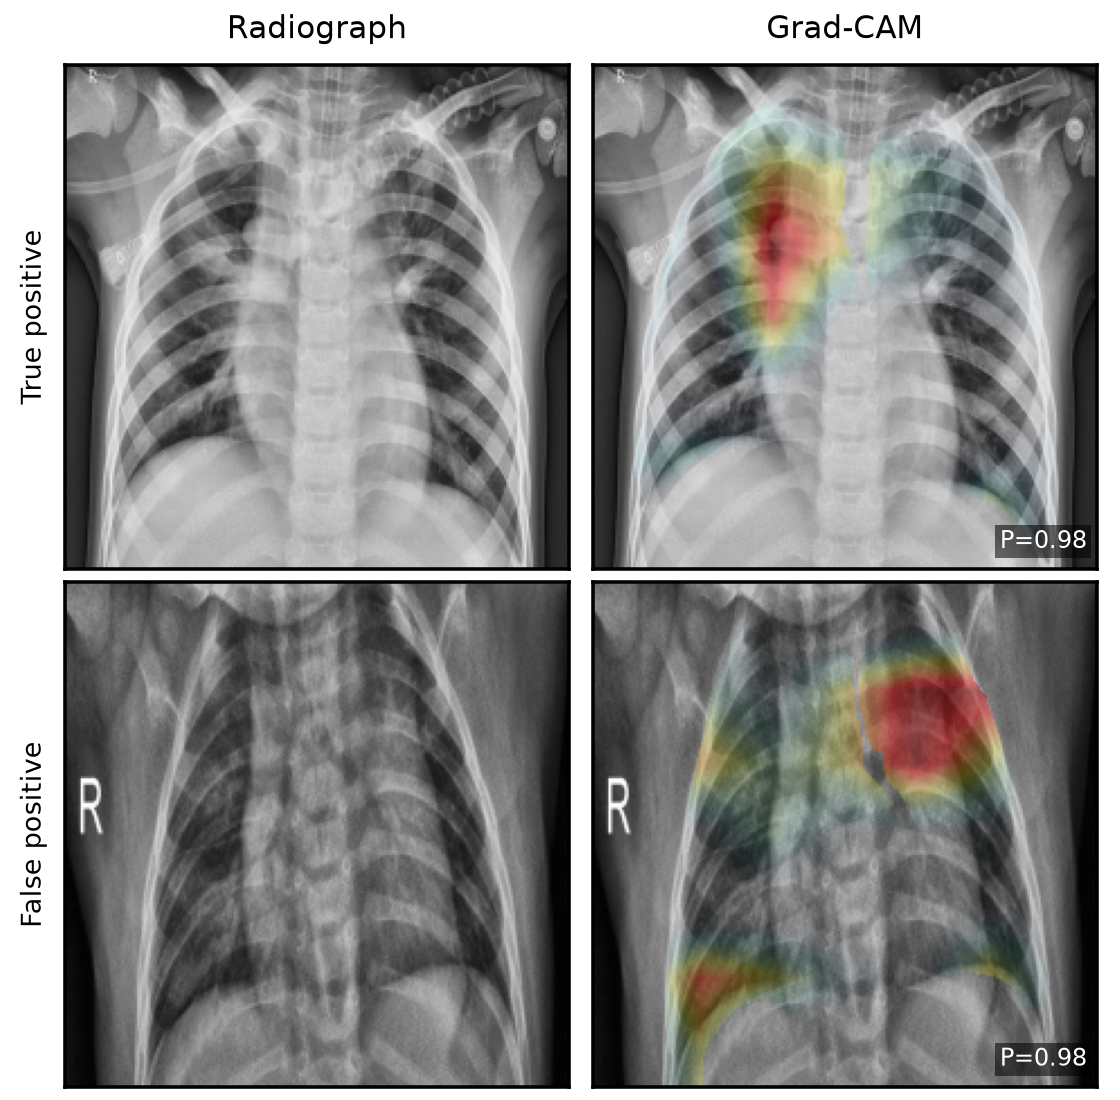
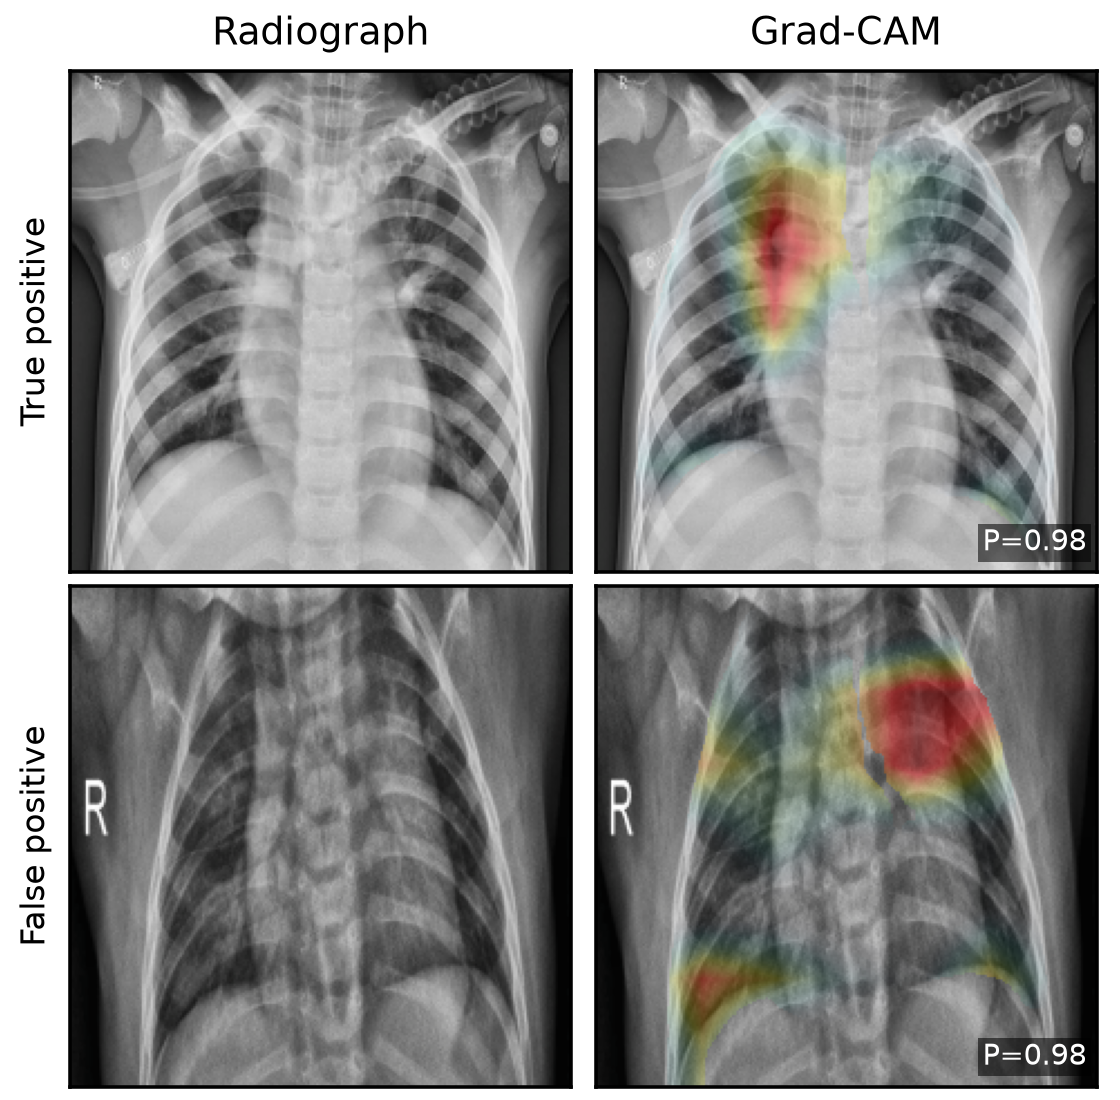
paper: shorter and more legible figures, correct LIME segmentation
LIME is described as using SLIC superpixels, but explain_instance is called
without a segmentation_fn, so it runs the library default (quickshift). The
method and its citation are corrected, the measured segment count (30-52 per
radiograph) replaces the "50 SLIC regions" claim, and the SLIC reference is
dropped since nothing cites it now.

Figure 2 was drawn 7.1in wide and printed into a 3.5in column, halving every
label: ticks landed near 3.5pt on the page. Redrawn at the printed width with
a shared legend. The architecture figure trades inter-row whitespace for
larger labels, so it prints shorter at 0.82 columnwidth without the text
getting smaller. Total figure height is down from 584pt to 531pt of column
space, with float and caption spacing tightened.

Citation metadata checked against Crossref for every DOI in the file. Three
page ranges quoted the CVF open-access pagination while carrying an IEEE
DOI (DenseNet, Swin, focal loss) and are corrected to the IEEE record; two
keys carried a year that was not the entry's year. Spelling normalised to
the -ize/American forms used throughout the rest of the paper.

Adds scripts/measure_occlusion.py so the occlusion-sensitivity correlations
quoted in Section V-E are reproducible from the repository.

diff --git a/Rad-Intel paper/main.tex b/Rad-Intel paper/main.tex
@@ -11,9 +11,12 @@
 \newcolumntype{L}[1]{>{\raggedright\arraybackslash}p{#1}}
 \newcolumntype{C}[1]{>{\centering\arraybackslash}p{#1}}
 
-\setlength{\textfloatsep}{7pt plus 1pt minus 2pt}
-\setlength{\floatsep}{6pt plus 1pt minus 2pt}
-\setlength{\intextsep}{6pt plus 1pt minus 2pt}
+\setlength{\textfloatsep}{6pt plus 1pt minus 2pt}
+\setlength{\floatsep}{5pt plus 1pt minus 2pt}
+\setlength{\intextsep}{5pt plus 1pt minus 2pt}
+\setlength{\abovecaptionskip}{3pt}
+\setlength{\belowcaptionskip}{0pt}
+\setlength{\dbltextfloatsep}{6pt plus 1pt minus 2pt}
 
 \title{DenseNet--Swin Transformer Classification with Evidence-Constrained Summarization of Pneumonia Radiography}
 
@@ -40,7 +43,7 @@ nandanhs.146@gmail.com
 \textit{Karnataka, India}\\
 poorabng@gmail.com
 \end{tabular}
-\\[1.1em]
+\\[0.6em]
 \multicolumn{3}{c}{
 \begin{tabular}{cc}
 \begin{tabular}{c}
@@ -74,7 +77,7 @@ chest radiography, pneumonia classification, DenseNet121, Swin Transformer, CBAM
 \end{IEEEkeywords}
 
 \section{Introduction}
-Pneumonia remains an important cause of childhood mortality worldwide \cite{who2026childmortality}. Chest radiography supports its assessment, though reading a film is affected by acquisition quality, projection, overlapping anatomy, and variation between observers \cite{lim2021pneumonia}. Deep networks pick up useful patterns in these images. What they do not supply is any account of which regions produced a given score.
+Pneumonia remains an important cause of childhood mortality worldwide \cite{who2022pneumonia}. Chest radiography supports its assessment, though reading a film is affected by acquisition quality, projection, overlapping anatomy, and variation between observers \cite{lim2021pneumonia}. Deep networks pick up useful patterns in these images. What they do not supply is any account of which regions produced a given score.
 
 Convolutional neural networks (CNNs), particularly DenseNet \cite{huang2017densenet}, are effective at encoding local texture and morphology. Hierarchical vision transformers such as Swin Transformer \cite{liu2021swin} complement this behavior by modeling longer-range spatial relationships through shifted-window attention. The system combines both representations and uses CBAM \cite{woo2018cbam} to refine the fused feature tensor across channel and spatial dimensions.
 
@@ -91,7 +94,7 @@ Feature-level fusion of complementary representations is not specific to medical
 
 Grad-CAM attributes a selected score to a convolutional feature tensor, whereas LIME approximates local behavior around a perturbed image. Their assumptions differ, making them complementary, not interchangeable. Khadidos \emph{et al.} similarly used both methods for pediatric pneumonia classification \cite{khadidos2026explainable}.
 
-Systems such as MAIRA-1 and RaDialog generate or discuss radiology reports directly from multimodal inputs \cite{hyland2023maira,pellegrini2023radialog}. The present system serves a narrower purpose: it summarizes serialized classifier evidence instead of generating a diagnostic report from the image. Consequently, the text component is assessed for schema compliance and agreement with the evidence object. GREEN is relevant only when the output and reference text satisfy its radiology-report evaluation assumptions \cite{ostmeier2024green}.
+Systems such as MAIRA-1 and RaDialog generate or discuss radiology reports directly from multimodal inputs \cite{hyland2023maira,pellegrini2026radialog}. The present system serves a narrower purpose: it summarizes serialized classifier evidence instead of generating a diagnostic report from the image. Consequently, the text component is assessed for schema compliance and agreement with the evidence object. GREEN is relevant only when the output and reference text satisfy its radiology-report evaluation assumptions \cite{ostmeier2024green}.
 
 Across that literature the two capabilities stay separate: the pneumonia classifiers report a label and a saliency map with no text component, and the radiology-language models generate prose from the image itself. The workflow here occupies neither position, pairing a classifier and its explanations with a summary constrained to serialized evidence.
 
@@ -110,7 +113,7 @@ Figure~\ref{fig:architecture} summarizes the flow from image preprocessing and h
 
 \begin{figure}[!t]
 \centering
-\includegraphics[width=0.90\columnwidth]{architecture.png}
+\includegraphics[width=0.82\columnwidth]{architecture.png}
 \caption{End-to-end classification, explanation, and evidence-constrained summarization workflow.}
 \label{fig:architecture}
 \end{figure}
@@ -171,8 +174,9 @@ the logit of the predicted class directly. The displayed map is min--max
 normalized to $[0,1]$. A named identity layer exposes the target tensor,
 avoiding hooks that depend on library-specific internal names.
 
-LIME \cite{ribeiro2016lime} uses SLIC superpixels \cite{achanta2012slic} and
-fits a locally weighted sparse surrogate $g$ around image $\mathbf{x}$:
+LIME \cite{ribeiro2016lime} partitions the image into superpixels with
+quickshift \cite{vedaldi2008quickshift} and fits a locally weighted sparse
+surrogate $g$ around image $\mathbf{x}$:
 \begin{align}
 \xi(\mathbf{x})&=\arg\min_{g\in\mathcal{G}}
 \mathcal{L}(f,g,\pi_{\mathbf{x}})+\Omega(g), \nonumber\\
@@ -186,7 +190,8 @@ In Eq.~\ref{eq:lime}, $\mathbf{z}'$ marks which superpixels are retained,
 $\mathbf{z}$ is the image that vector produces, $\mathcal{Z}$ is the sampled
 set, $f(\mathbf{z})$ is the classifier probability, $\pi_{\mathbf{x}}$ weights
 each sample by proximity to $\mathbf{x}$, and $\Omega(g)$ penalizes surrogate
-complexity. The implementation requests 50 SLIC regions, evaluates 150
+complexity. The implementation keeps the library's default segmentation
+parameters, which yield 30 to 52 regions per radiograph, evaluates 150
 perturbations and retains the five highest-weighted regions at seed 42.
 
 A deterministic serializer records the predicted label, probability,
@@ -248,7 +253,7 @@ records schema-valid rate, evidence agreement, forbidden-claim rate,
 fallback frequency, reproducibility and latency, with the deterministic
 template as the reference.
 
-The output is also reviewed by a practising clinician, credited in the
+The output is also reviewed by a practicing clinician, credited in the
 acknowledgment. Cases are drawn as a stratified sample before any result is
 inspected, covering correct and incorrect predictions in both classes. The
 reviewer sees the radiograph, the overlay and the summary, blinded to which
@@ -419,8 +424,8 @@ used. None is a localization score: the dataset carries
 no lesion annotations, so every entry describes model sensitivity and
 nothing about anatomical correctness.
 
-Both methods are scored on the same 25 radiographs, since a deletion curve
-from one sample cannot be set against an insertion curve from another. LIME
+Both methods are scored on the same 25 radiographs, since a curve measured
+over one sample cannot be set against a curve measured over a different one. LIME
 produces the more concentrated maps ($0.375$ against $0.288$) and the better
 central values on both faithfulness measures, at a lower deletion AUC
 ($0.567$ against $0.616$) and a higher insertion AUC ($0.794$ against
@@ -428,8 +433,8 @@ $0.724$). Neither gap survives a paired test over the 25 image pairs: the
 deletion difference is $-0.049$ with a bootstrap interval of $[-0.113,
 +0.021]$ and a signed-rank $p=0.19$, and the insertion difference is
 $+0.070$ with an interval of $[+0.013, +0.131]$ and $p=0.08$. The direction
-favours LIME on both and the sample does not establish it, which is the most
-that 25 images support. Grad-CAM is stable under small translations
+favors LIME on both measures; the sample does not establish it. That is the
+most 25 images support. Grad-CAM is stable under small translations
 ($\rho=0.81$), costs roughly $47$ times less, and is therefore the default
 view, with LIME computed on request. The two agree only weakly, at an IoU of
 $0.188$: two attribution methods applied to the same model and image select
@@ -492,13 +497,13 @@ the clavicles or the image border. Explanations are therefore confined to
 lung fields, with the off-lung fraction carried alongside.
 Fig.~\ref{fig:qualitative} contrasts a correct case with a false positive
 under identical settings. The second matters more: explanation maps stay
-confident when the prediction is wrong, which is the behaviour the interface
+confident when the prediction is wrong, which is the behavior the interface
 is built to expose.
 
 \begin{figure}[t]
 \centering
-\includegraphics[width=0.86\columnwidth]{fig_qualitative.png}
-\caption{Qualitative output of the complete classifier on two held-out cases, one correct and one false positive. $P$ is the predicted probability of pneumonia. Highlighted regions indicate model sensitivity confined to the segmented lung fields; they are not radiological findings.}
+\includegraphics[width=0.80\columnwidth]{fig_qualitative.png}
+\caption{Qualitative output of the complete classifier on two held-out cases, one correct and one false positive. $P$ is the predicted probability of pneumonia, and the two radiographs happen to draw the same value: the model is as confident on the normal chest it misreads as on the pneumonia it identifies. Highlighted regions indicate model sensitivity confined to the segmented lung fields; they are not radiological findings.}
 \label{fig:qualitative}
 \end{figure}
 
@@ -535,7 +540,7 @@ to observed consolidation, and the treatment directive has been removed.
 
 \subsection{Clinical Review}
 \label{sec:review}
-A practising clinician (MBBS, MD) with five years of reporting experience,
+A practicing clinician (MBBS, MD) with five years of reporting experience,
 named in the acknowledgment, reviewed 30 stratified test cases under the
 blinded protocol of Section~\ref{sec:setup}: 21 the model classified
 correctly and 9 it did not. Table~\ref{tab:main}(c) reports the rubric.
@@ -585,7 +590,7 @@ the constraint a teaching deployment imposes.
 \section{Discussion}
 The ablation does not support one of this paper's own design choices. The
 same direction appeared under an earlier frozen-backbone protocol, so the
-null result is not an artefact of one training regime. Only one reading is
+null result is not an artifact of one training regime. Only one reading is
 supported: CBAM is not shown to degrade performance, and it is not shown to
 help. For $32{,}868$ parameters the module earns no place here.
 
@@ -604,7 +609,7 @@ AUROC, $0.975$, with the worst specificity of any configuration, $0.778$,
 returning 52 false positives against the complete classifier's 34. Ranking quality and decision quality
 come apart, so the contribution of fusion is a balanced decision boundary,
 not superior discrimination. One asymmetry runs through every row: all five
-configurations detect pneumonia more reliably than they recognise a normal
+configurations detect pneumonia more reliably than they recognize a normal
 radiograph, at sensitivity $0.933$--$0.974$ against specificity
 $0.778$--$0.914$. Inverse-frequency weights did not remove it, and the error
 the system makes most often is calling a healthy chest abnormal.
@@ -655,7 +660,7 @@ protocols without external validation.
 Measured saliency on the trained models falls substantially outside the
 thorax, between $21\%$ and $48\%$ of total mass, and on normal radiographs
 the global maximum often lay outside the lung fields. Because an occlusion
-reference agrees with these maps, the behaviour is attributable to the
+reference agrees with these maps, the behavior is attributable to the
 classifier, not to the attribution method, and it is consistent with the
 shortcut learning this dataset is known to permit: systematic differences in
 framing, cropping and acquisition between the two class folders are
@@ -671,7 +676,7 @@ validation enforces form and evidence consistency; it cannot enforce medical
 correctness. The clinical review rests on one reader and a stratified sample, so it
 supports statements about how the output is presented, not an inter-reader
 agreement estimate, and it is not a clinical validation. Within that limit
-it was unfavourable: rubric scores averaged near neutral, and half the cases
+it was unfavorable: rubric scores averaged near neutral, and half the cases
 were read as diagnostic despite the validator reporting no forbidden claims.
 The evidence-constrained design therefore achieves what it checks for and
 not what it claims in full, and closing that gap requires constraining

diff --git a/scripts/measure_occlusion.py b/scripts/measure_occlusion.py
@@ -1,0 +1,87 @@
+"""Occlusion-sensitivity reference for the Grad-CAM maps.
+
+Grad-CAM cannot validate itself: a map stays visually plausible whether or not
+it reflects what the network used, which is how the Swin channels-last bug
+survived inspection. Blanking patches and watching the class probability move
+is slow but assumption-free, so it is the reference the attribution maps are
+checked against. The reported quantity is the rank correlation between the
+Grad-CAM map and the occlusion map over the same image; a negative value means
+the explanation points away from the evidence.
+"""
+from __future__ import annotations
+import argparse, glob, json, random, warnings
+warnings.filterwarnings("ignore")
+import numpy as np, torch
+import torch.nn.functional as F
+from scipy.stats import spearmanr
+
+from rad_intel.api.dependencies import model_manager as M
+from rad_intel.preprocessing.transforms import default_preprocessor as P
+from rad_intel.xai.gradcam import GradCAMExplainer
+from rad_intel.xai.visualizer import normalize_heatmap
+
+MODELS = ["densenet121", "swin_t", "resnet50", "hybrid_no_cbam", "hybrid"]
+
+
+def occlusion_map(model, t, cat, patch=32, stride=16, batch=32):
+    """Drop in P(class) when each patch is blanked, as a map at stride resolution."""
+    _, _, H, W = t.shape
+    with torch.no_grad():
+        base = F.softmax(model(t), dim=-1)[0, cat].item()
+    ys = list(range(0, H - patch + 1, stride))
+    xs = list(range(0, W - patch + 1, stride))
+    coords = [(y, x) for y in ys for x in xs]
+    drops = []
+    for i in range(0, len(coords), batch):
+        chunk = coords[i:i + batch]
+        xb = t.repeat(len(chunk), 1, 1, 1).clone()
+        for j, (y, x) in enumerate(chunk):
+            xb[j, :, y:y + patch, x:x + patch] = 0.0
+        with torch.no_grad():
+            p = F.softmax(model(xb), dim=-1)[:, cat]
+        drops.extend((base - p).tolist())
+    m = np.asarray(drops, dtype=np.float32).reshape(len(ys), len(xs))
+    # Only drops are evidence of use; a probability that rises when a region is
+    # removed says the region argued against the class, not that it was ignored.
+    return np.clip(m, 0.0, None)
+
+
+def main():
+    ap = argparse.ArgumentParser()
+    ap.add_argument("--n", type=int, default=10)
+    ap.add_argument("--data-dir", default="Rad-Intel paper/chest_xray")
+    ap.add_argument("--out", default="results/table6_occlusion.json")
+    args = ap.parse_args()
+
+    rng = random.Random(42)
+    sample = rng.sample(sorted(glob.glob(f"{args.data_dir}/test/*/*.jpeg")), args.n)
+    out = {"n_images": args.n, "patch": 32, "stride": 16, "models": {}}
+
+    for name in MODELS:
+        model = M.get_model(name); model.eval()
+        gc = GradCAMExplainer(model=model)
+        rs = []
+        for f in sample:
+            t, _ = P.preprocess(f)
+            cls, _, _, _ = M.predict(t, name)
+            cat = 1 if cls == "PNEUMONIA" else 0
+            occ = occlusion_map(model, t, cat)
+            cam = normalize_heatmap(gc.generate_heatmap(t, cat))
+            cam = torch.nn.functional.interpolate(
+                torch.from_numpy(cam)[None, None], size=occ.shape,
+                mode="bilinear", align_corners=False)[0, 0].numpy()
+            r = spearmanr(cam.ravel(), occ.ravel()).statistic
+            if np.isfinite(r):
+                rs.append(float(r))
+        out["models"][name] = {"mean_r": round(float(np.mean(rs)), 3),
+                               "sd": round(float(np.std(rs)), 3),
+                               "n": len(rs)}
+        print(f"{name:16s} r = {out['models'][name]['mean_r']:+.3f} "
+              f"(sd {out['models'][name]['sd']:.3f}, n={len(rs)})", flush=True)
+
+    open(args.out, "w").write(json.dumps(out, indent=2))
+    print("wrote", args.out)
+
+
+if __name__ == "__main__":
+    main()

diff --git a/scripts/make_figures.py b/scripts/make_figures.py
@@ -15,7 +15,7 @@ STYLE = {"densenet121":("#0072B2","-"), "swin_t":("#E69F00","--"),
          "hybrid":("#D55E00","-")}
 
 def fig2():
-    fig, ax = plt.subplots(1, 2, figsize=(7.1, 3.0))
+    fig, ax = plt.subplots(1, 2, figsize=(3.5, 1.52))
     for k, label in NAMES.items():
         f = f"results/roc_{k}.csv"
         if not os.path.exists(f): continue
@@ -23,8 +23,9 @@ def fig2():
         c, ls = STYLE[k]
         ax[0].plot(d[:,0], d[:,1], color=c, ls=ls, lw=1.4, label=label)
     ax[0].plot([0,1],[0,1], color="0.6", lw=.8, ls=":")
-    ax[0].set_xlabel("False positive rate"); ax[0].set_ylabel("True positive rate")
-    ax[0].set_title("ROC", fontsize=9); ax[0].legend(fontsize=6, loc="lower right")
+    ax[0].set_xlabel("False positive rate", fontsize=6.5)
+    ax[0].set_ylabel("True positive rate", fontsize=6.5)
+    ax[0].set_title("ROC", fontsize=7.5)
     ax[0].set_xlim(0,1); ax[0].set_ylim(0,1.005)
 
     ax[1].plot([0,1],[0,1], color="0.6", lw=.8, ls=":", label="perfect")
@@ -35,11 +36,16 @@ def fig2():
         if d.ndim == 1: d = d[None]
         c, ls = STYLE[k]
         ax[1].plot(d[:,1], d[:,2], color=c, ls=ls, lw=1.3, marker="o", ms=2.5, label=label)
-    ax[1].set_xlabel("Mean predicted probability"); ax[1].set_ylabel("Observed frequency")
-    ax[1].set_title("Reliability (15 bins)", fontsize=9)
+    ax[1].set_xlabel("Mean predicted probability", fontsize=6.5)
+    ax[1].set_ylabel("Observed frequency", fontsize=6.5)
+    ax[1].set_title("Reliability (15 bins)", fontsize=7.5)
     ax[1].set_xlim(0,1); ax[1].set_ylim(0,1)
-    for a in ax: a.tick_params(labelsize=7); a.grid(alpha=.25, lw=.4)
-    fig.tight_layout(pad=.4)
+    for a in ax: a.tick_params(labelsize=5.5, pad=1.5); a.grid(alpha=.25, lw=.35)
+    h, lb = ax[0].get_legend_handles_labels()
+    fig.legend(h, lb, fontsize=5.8, ncol=3, loc="lower center",
+               frameon=False, handlelength=2.4, columnspacing=1.2,
+               borderaxespad=0.0, bbox_to_anchor=(0.5, -0.02))
+    fig.tight_layout(pad=.3, rect=(0, 0.13, 1, 1))
     fig.savefig(f"{OUT}/fig_roc_reliability.png", dpi=320)
     print("wrote fig_roc_reliability.png")
 
@@ -76,11 +82,11 @@ def fig3(model="hybrid"):
         ov = res["overlay_base64"].split(",",1)[1]
         img = cv2.imdecode(np.frombuffer(base64.b64decode(ov), np.uint8), cv2.IMREAD_COLOR)
         axes[r,0].imshow(rgb); axes[r,1].imshow(cv2.cvtColor(img, cv2.COLOR_BGR2RGB))
-        axes[r,0].set_ylabel(titles[key], fontsize=6)
-        axes[r,0].set_title("Radiograph" if r==0 else "", fontsize=7)
-        axes[r,1].set_title("Grad-CAM" if r==0 else "", fontsize=7)
+        axes[r,0].set_ylabel(titles[key], fontsize=7.5)
+        axes[r,0].set_title("Radiograph" if r==0 else "", fontsize=8.5)
+        axes[r,1].set_title("Grad-CAM" if r==0 else "", fontsize=8.5)
         axes[r,1].text(.98,.03, f"P={p:.2f}", transform=axes[r,1].transAxes,
-                       ha="right", va="bottom", fontsize=5.5, color="w",
+                       ha="right", va="bottom", fontsize=6.5, color="w",
                        bbox=dict(fc="k", alpha=.55, pad=1, lw=0))
         for a in axes[r]: a.set_xticks([]); a.set_yticks([])
     fig.tight_layout(pad=.3)

diff --git a/scripts/make_architecture.py b/scripts/make_architecture.py
@@ -39,11 +39,11 @@ STAGES = {
 
 COLS, ROWS = 2, 5
 BW, BH = 44.0, 15.0          # box size
-GX, GY = 10.0, 5.0           # gaps
+GX, GY = 10.0, 3.2           # gaps; rows sit close so the column box stays short
 W = COLS * BW + GX
 H = ROWS * BH + (ROWS - 1) * GY
 
-fig, ax = plt.subplots(figsize=(7.2, 8.4))
+fig, ax = plt.subplots(figsize=(7.2, 7.8))
 ax.set_xlim(-2, W + 2); ax.set_ylim(-2, H + 2); ax.axis("off")
 fig.patch.set_facecolor("white")
 
@@ -62,10 +62,10 @@ for (r, c), (title, colour, lines) in STAGES.items():
                                 boxstyle="round,pad=0.8,rounding_size=2.2",
                                 ec=edge, fc=face, lw=2.6, zorder=2))
     ax.text(x + BW / 2, y + BH - 4.4, title, ha="center", va="center",
-            fontsize=15.5, color=edge, fontweight="bold", zorder=3)
+            fontsize=16.2, color=edge, fontweight="bold", zorder=3)
     for j, t in enumerate(lines):
         ax.text(x + BW / 2, y + BH - 9.0 - j * 4.4, t, ha="center", va="center",
-                fontsize=12.5, color="#24252b", zorder=3)
+                fontsize=13.0, color="#24252b", zorder=3)
     pos[(r, c)] = (x, y)
 
 
@@ -86,9 +86,9 @@ def link(a, sa, b, sb, lw=2.2):
 link((0,0), "R", (0,1), "L")                    # input -> preprocessing
 link((0,1), "B", (1,1), "T")                    # -> Swin branch
 xp, yp = pos[(0,1)]; xd, yd = pos[(1,0)]
-ax.plot([xp + BW / 2, xd + BW / 2], [yp - 2.5, yp - 2.5], color="#141418", lw=2.2, zorder=3)
-ax.plot([xp + BW / 2, xp + BW / 2], [yp, yp - 2.5], color="#141418", lw=2.2, zorder=3)
-ax.add_patch(FancyArrowPatch((xd + BW / 2, yp - 2.5), (xd + BW / 2, yd + BH),
+ax.plot([xp + BW / 2, xd + BW / 2], [yp - GY * 0.5, yp - GY * 0.5], color="#141418", lw=2.2, zorder=3)
+ax.plot([xp + BW / 2, xp + BW / 2], [yp, yp - GY * 0.5], color="#141418", lw=2.2, zorder=3)
+ax.add_patch(FancyArrowPatch((xd + BW / 2, yp - GY * 0.5), (xd + BW / 2, yd + BH),
                              arrowstyle="-|>", mutation_scale=17, lw=2.2,
                              color="#141418", zorder=4))
 xd0, yd0 = pos[(1,0)]
